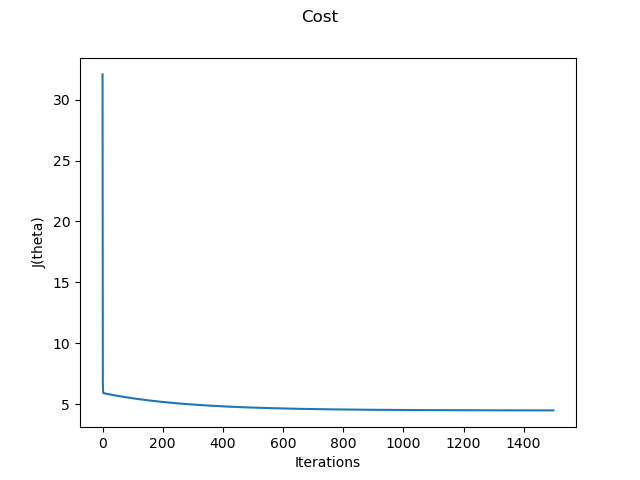
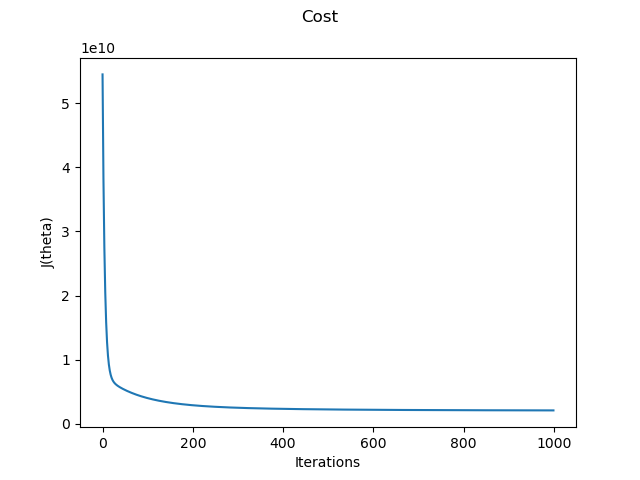
funciona?

diff --git a/Practica 1/p1.2.py b/Practica 1/p1.2.py
@@ -42,8 +42,13 @@ def gradient(X, Y, T, alpha):
     return new_T
 
 
+def cost(X, Y, T):
+    XTY = np.matmul(X, T) - Y
+    return 1 / (2 * np.shape(X)[0]) * (np.matmul(np.transpose(XTY), XTY))
+
 
 def main():
+
     data = getMat('./ex1data2.csv')
     X = data[:, :-1]
     X = np.hstack([np.ones([len(X), 1]), X])
@@ -60,22 +65,24 @@ def main():
         ranges.append(ran)
         averages.append(avg)
 
-    print(X, ranges, averages)
+    # print(X, ranges, averages)
 
-
-    alpha = 0.000000001
+    costs = []
+    alpha = 0.1
+    iterations = 1000
     T = np.zeros(np.shape(X)[1])
-    for i in range(1000):
+    for i in range(iterations):
         T = gradient(X, Y, T, alpha)
-    
-    #for i in X:
-    #    print(i)
-    #    i *= ranges
-    #    i += averages
-    #    print(i)
+        costs.append(cost(X, Y, T))
 
-    print(X)
+    plt.suptitle('Cost')
+    plt.xlabel('Iterations')
+    plt.ylabel('J(theta)')
+    plt.plot(np.arange(0, iterations), costs)
+    plt.savefig('costs.png')
+    plt.show()
 
+    print(T)
     for i in range(len(X)):
         print(np.dot(np.transpose(T), X[i]))
 
